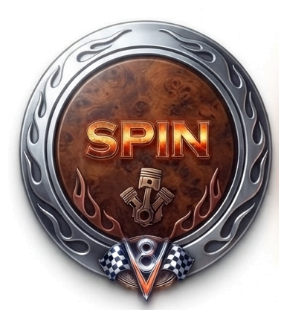
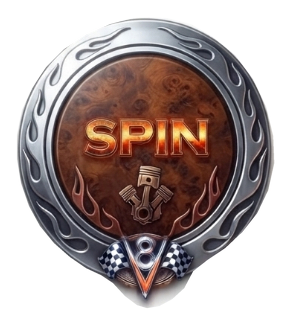
Fix reel reflection sweep and clean SPIN artwork

diff --git a/themes/v8-power-road-king.js b/themes/v8-power-road-king.js
@@ -2,7 +2,7 @@
 if (new URLSearchParams(window.location.search).get('desktop-preview') === '1') document.documentElement.classList.add('rk-desktop-preview');
 (() => {
  const transparent='assets/v8-power-road-king/transparent.webp';
- window.SLOT_GAME_CONFIG={schemaVersion:1,id:'v8-road-king',assets:{frame:{portrait:'assets/v8-power-road-king/frame.webp',fallback:'assets/v8-power-road-king/frame.webp'},loading:'assets/v8-power-road-king/loading.webp',spin:{normal:'assets/v8-power-road-king/buttons/spin-normal.webp',pressed:'assets/v8-power-road-king/buttons/spin-pressed.webp'},indicators:{balance:transparent,bet:transparent,lines:transparent},announcementFrame:transparent,bigWin:'assets/v8-power-road-king/effects/big-win.webp',lowWin:'assets/v8-power-road-king/effects/low-win.webp',paytableFrame:transparent,winFrames:[{key:'v8-win-glow',src:'assets/v8-power-road-king/effects/win-glow.webp'}]},
+ window.SLOT_GAME_CONFIG={schemaVersion:1,id:'v8-road-king',assets:{frame:{portrait:'assets/v8-power-road-king/frame.webp',fallback:'assets/v8-power-road-king/frame.webp'},loading:'assets/v8-power-road-king/loading.webp',spin:{normal:'assets/v8-power-road-king/buttons/spin-normal.webp?v=spin-cutout-20261008-1',pressed:'assets/v8-power-road-king/buttons/spin-pressed.webp?v=spin-cutout-20261008-1'},indicators:{balance:transparent,bet:transparent,lines:transparent},announcementFrame:transparent,bigWin:'assets/v8-power-road-king/effects/big-win.webp',lowWin:'assets/v8-power-road-king/effects/low-win.webp',paytableFrame:transparent,winFrames:[{key:'v8-win-glow',src:'assets/v8-power-road-king/effects/win-glow.webp'}]},
  symbols:[
     { key: 'cosmic-engine-heart', label: 'Motor V8', asset: 'assets/v8-power-road-king/symbols/cosmic-engine-heart-normal-centered.webp', winAsset: 'assets/v8-power-road-king/symbols/cosmic-engine-heart-bright-centered.webp' },
     { key: 'celestial-piston', label: 'Pistón y bujía', asset: 'assets/v8-power-road-king/symbols/celestial-piston-normal-centered.webp', winAsset: 'assets/v8-power-road-king/symbols/celestial-piston-bright-centered.webp' },

diff --git a/themes/v8-power-road-king.css b/themes/v8-power-road-king.css
@@ -539,7 +539,7 @@ html[data-skin="v8-road-king"] #game .reels.is-spinning::before {
 }
 :root[data-skin="v8-road-king"] #game .reels::before {
   opacity:.92 !important;
-  background:
+  background-image:
     linear-gradient(180deg,rgba(236,248,255,.24),rgba(225,243,255,.045) 10%,transparent 24%,transparent 77%,rgba(238,155,72,.055) 91%,rgba(238,155,72,.18)),
     linear-gradient(112deg,transparent 38%,rgba(216,239,255,.22) 49%,rgba(255,255,255,.32) 50%,rgba(244,169,92,.17) 52%,transparent 63%) !important;
 }
@@ -647,11 +647,11 @@ html[data-skin="v8-road-king"] #game .reels.is-spinning::before {
 :root[data-skin="v8-road-king"] #game .reels.is-spinning { animation:none !important; }
 :root[data-skin="v8-road-king"] #game .reels.is-spinning canvas { animation:none !important; }
 :root[data-skin="v8-road-king"] #game .reels::before {
-  background-position:center,60% 0 !important; opacity:.58 !important;
+  background-position:center,60% 0; opacity:.58 !important;
 }
 :root[data-skin="v8-road-king"] #game .reels.is-spinning::before {
-  background-position:center,50% 0 !important; animation:rk-window-glow 1.3s ease-in-out infinite alternate !important;
-  will-change:opacity !important;
+  background-position:center,220% 0; animation:rk-window-sheen-pro 1.6s linear infinite !important;
+  opacity:.86 !important; will-change:background-position !important;
 }
 :root[data-skin="v8-road-king"] #game .ui #spin { animation:none !important; }
 @keyframes rk-window-glow { from { opacity:.58; } to { opacity:.9; } }
@@ -788,4 +788,12 @@ html[data-skin="v8-road-king"] #game .reels.is-spinning::before {
 :root[data-skin="v8-road-king"] .paytable-rules {
   gap:2px !important; margin-top:5px !important;
   font-size:clamp(9px,2.35vw,11px) !important; line-height:1.18 !important;
+}
+
+
+/* Let the reel-glass reflection sweep during each spin; respect reduced motion. */
+@media(prefers-reduced-motion:reduce) {
+  :root[data-skin="v8-road-king"] #game .reels.is-spinning::before {
+    animation:none !important; background-position:center,60% 0;
+  }
 }

diff --git a/v8-power-road-king.html b/v8-power-road-king.html
@@ -11,7 +11,7 @@
   <link rel="stylesheet" href="style.css?v=single-portrait-15">
   <link rel="stylesheet" href="themes/skin-tokens.css?v=skin-refactor-1">
   <link rel="stylesheet" href="shared-portrait.css?v=single-canvas-4">
-  <link rel="stylesheet" href="themes/v8-power-road-king.css?v=v8-road-king-20261006-33">
+  <link rel="stylesheet" href="themes/v8-power-road-king.css?v=v8-road-king-20261006-34">
 </head>
 <body>
   <div class="orientation-warning" role="status" aria-live="polite">Poné el teléfono en vertical para jugar.</div>
@@ -74,7 +74,7 @@
     </div>
   </div>
   <script src="phaser.min.js?v=4.2.1"></script>
-  <script src="themes/v8-power-road-king.js?v=v8-road-king-20261006-33"></script>
-  <script src="main.js?v=v8-road-king-20261006-33"></script>
+  <script src="themes/v8-power-road-king.js?v=v8-road-king-20261006-34"></script>
+  <script src="main.js?v=v8-road-king-20261006-34"></script>
 </body>
 </html>
